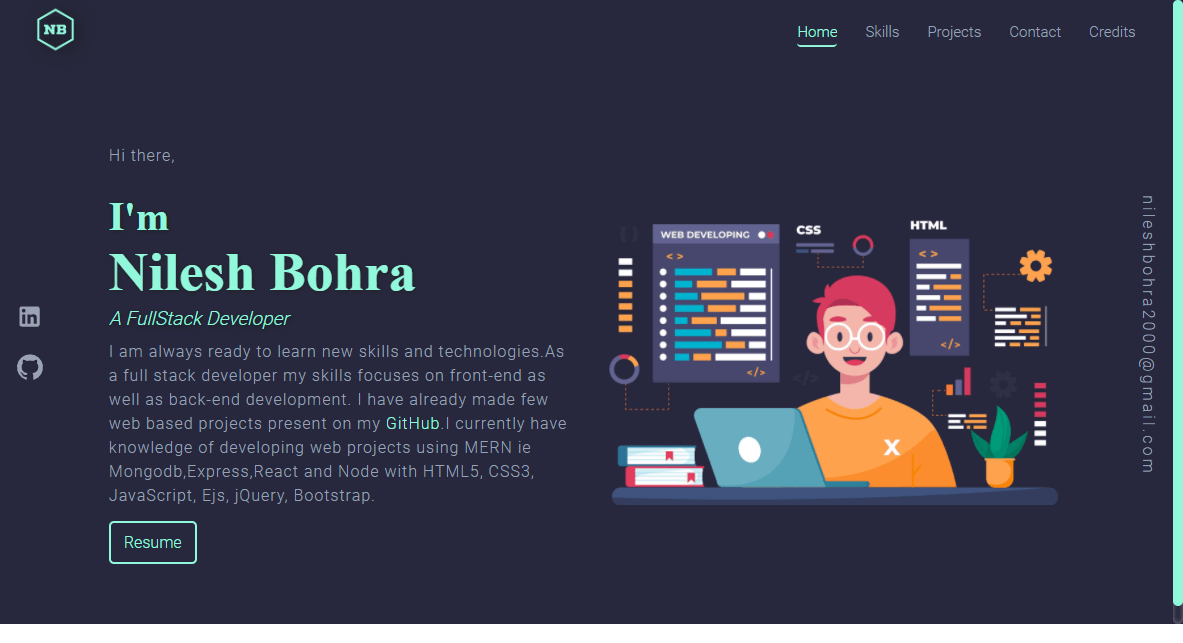
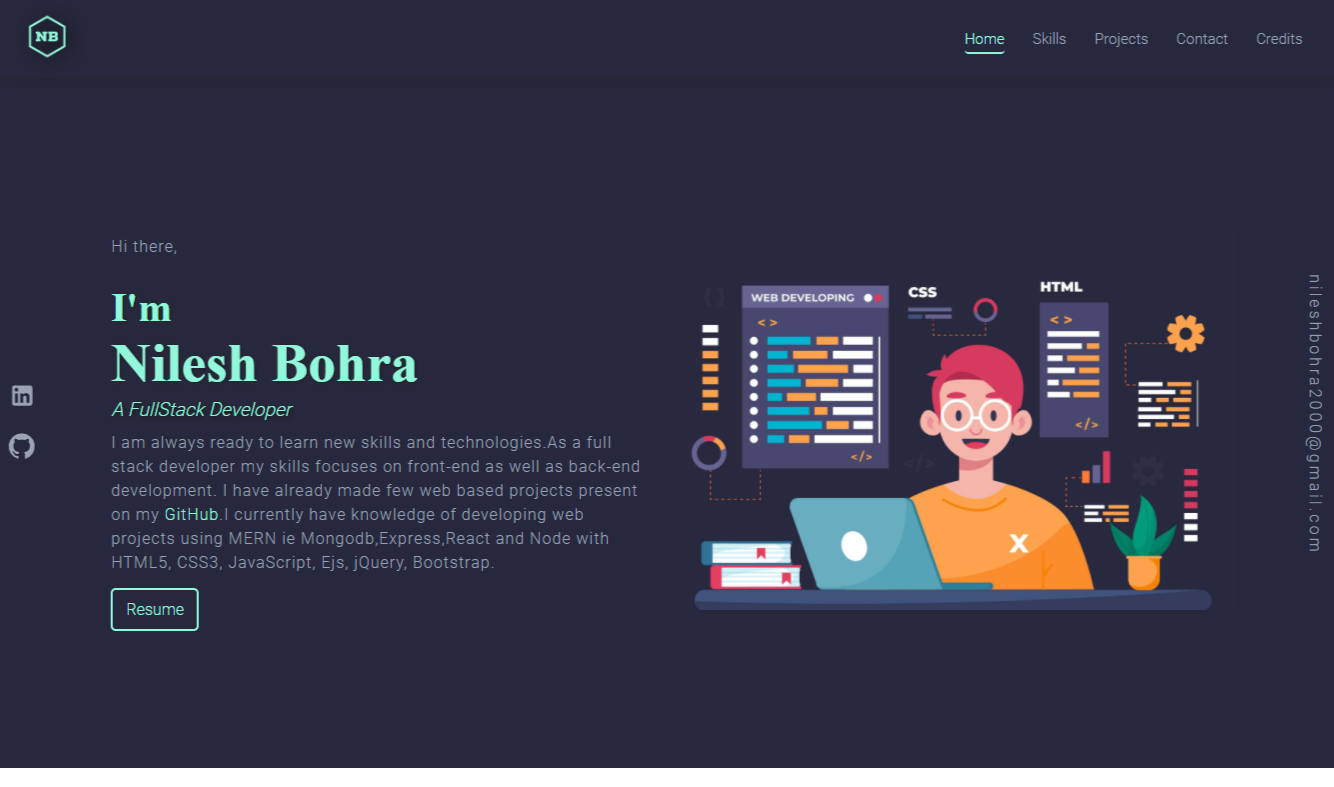
improved ui

diff --git a/public/index.css b/public/index.css
@@ -8,7 +8,6 @@
   box-sizing: border-box;
   font-family: "Roboto", sans-serif;
 }
-
 /* css variables */
 :root {
   /* --primary-bg: #091223; */
@@ -18,6 +17,10 @@
 }
 
 /* --------------------------------- global --------------------------------- */
+html {
+  scroll-behavior: smooth;
+}
+
 body {
   background-color: var(--primary-bg);
   height: 100vh;
@@ -91,28 +94,45 @@ h1.heading::before {
 }
 
 /* ------------------------------ splashScreen ------------------------------ */
-.splashScreen{
-  height: 100vh;
+.splashScreen {
+  height: 90vh;
   width: 100vw;
   display: flex;
   align-items: center;
   justify-content: center;
   overflow: hidden;
 }
-.splashScreenImg{
-  width: 150px;
-  animation-name: blink;
-  animation-duration: 1.2s;
-  animation-timing-function: ease;
-  animation-iteration-count: infinite;
+.splashScreenImg {
+  width: 130px;
+  -webkit-animation-name: blink;
+          animation-name: blink;
+  -webkit-animation-duration: 1.2s;
+          animation-duration: 1.2s;
+  -webkit-animation-timing-function: ease;
+          animation-timing-function: ease;
+  -webkit-animation-iteration-count: infinite;
+          animation-iteration-count: infinite;
 }
 
-@keyframes blink{
-  from{
-    filter: drop-shadow(0px 0px 4px var(--primary-txt));
+@-webkit-keyframes blink {
+  from {
+    -webkit-filter: drop-shadow(0px 0px 4px var(--primary-txt));
+            filter: drop-shadow(0px 0px 4px var(--primary-txt));
   }
-  to{
-    filter: drop-shadow(4px 2px 10px rgb(0, 0, 0));
+  to {
+    -webkit-filter: drop-shadow(4px 2px 10px rgb(0, 0, 0));
+            filter: drop-shadow(4px 2px 10px rgb(0, 0, 0));
+  }
+}
+
+@keyframes blink {
+  from {
+    -webkit-filter: drop-shadow(0px 0px 4px var(--primary-txt));
+            filter: drop-shadow(0px 0px 4px var(--primary-txt));
+  }
+  to {
+    -webkit-filter: drop-shadow(4px 2px 10px rgb(0, 0, 0));
+            filter: drop-shadow(4px 2px 10px rgb(0, 0, 0));
   }
 }
 
@@ -124,14 +144,18 @@ header {
   align-items: center;
   height: 10vh;
   padding: 1.2% 2%;
+  position: -webkit-sticky;
   position: sticky;
+  box-shadow: 1px 1px 20px -8px rgb(27, 27, 27);
 }
 .logo {
-  filter: drop-shadow(4px 2px 10px rgb(0, 0, 0));
+  -webkit-filter: drop-shadow(4px 2px 10px rgb(0, 0, 0));
+          filter: drop-shadow(4px 2px 10px rgb(0, 0, 0));
   transition: all 0.5s ease;
 }
 .logo:hover {
-  filter: drop-shadow(0px 0px 1.5px var(--primary-txt));
+  -webkit-filter: drop-shadow(0px 0px 1.5px var(--primary-txt));
+          filter: drop-shadow(0px 0px 1.5px var(--primary-txt));
 }
 nav > ul {
   list-style: none;
@@ -262,11 +286,17 @@ h3.title {
   padding: 10px 20px;
   height: 220px;
   overflow: auto;
+  background-color: var(--primary-txt);
+  border-radius: 5px;
+  box-shadow: 1px 1px 10px black;
 }
 .projectImage {
   width: 50%;
-  height: 100%;
+  height: auto;
   overflow: hidden;
+  border-radius: 10px;
+  box-shadow: 0px 0px 5px black;
+  background-color: #1f2e4b;
 }
 .projectImgs {
   width: 100%;
@@ -281,6 +311,9 @@ h3.title {
   display: flex;
   flex-direction: column;
 }
+.projectTitle > h1.primaryTxt {
+  color: var(--primary-bg);
+}
 .projectLinks {
   position: absolute;
   width: 80%;
@@ -291,6 +324,7 @@ h3.title {
   margin-top: 6px;
 }
 .projectLinks > a {
+  color: var(--primary-bg);
   padding: 0 20px;
 }
 #Projects > .moreProjects {
@@ -307,7 +341,15 @@ h3.title {
 }
 .contactForm {
   display: flex;
+  flex-direction: column;
   justify-content: center;
+  align-items: center;
+}
+.contactForm > h1.primaryTxt {
+  font-size: 35px;
+  margin-bottom: 20px;
+  letter-spacing: 2px;
+  font-family: monospace;
 }
 form {
   width: 70%;
@@ -336,12 +378,12 @@ form {
 }
 .formGroup input,
 textarea {
-  border: 2px solid red;
   color: var(--primary-txt);
   padding: 9px 15px;
   background-color: transparent;
   outline: none;
   border: 2px solid var(--primary-txt);
+  border-radius: 5px;
   margin-top: 6px;
   font-size: 15.5px;
   letter-spacing: 0.7px;
@@ -349,6 +391,12 @@ textarea {
 }
 textarea {
   resize: vertical;
+}
+
+.btnSubmit {
+  background-color: var(--primary-txt);
+  color: var(--primary-bg);
+  font-weight: 900;
 }
 
 /* -------------------------- Credits Page section -------------------------- */
@@ -417,7 +465,7 @@ textarea {
   .nameTxt {
     font-size: 30px;
   }
-  #introduction{
+  #introduction {
     width: 100%;
   }
   .heroImage {
@@ -456,6 +504,9 @@ textarea {
     box-shadow: 1px 1px 20px -8px rgb(27, 27, 27);
     margin-bottom: 10px;
     padding: 0 15px;
+    height: -webkit-fit-content;
+    height: -moz-fit-content;
+    height: fit-content;
   }
   /* .logo {
   } */
@@ -493,13 +544,13 @@ textarea {
     z-index: 3;
   }
   .hamburgerMenu i {
-    width: 27px;
+    width: 35px;
     height: 3px;
     background-color: var(--primary-txt);
     transition: all ease 0.5s;
   }
   .hamburgerMenu i:nth-child(2) {
-    width: 20px;
+    width: 25px;
     background-color: red;
   }
 
@@ -576,7 +627,7 @@ textarea {
   }
   .projectItem {
     width: auto;
-    height: 175px;
+    height: 160px;
     padding: 10px;
     margin: 10px 0;
   }
@@ -603,6 +654,9 @@ textarea {
   }
 
   /* ------------------------------ Contact Page ------------------------------ */
+  .contactForm > h1.primaryTxt {
+    font-size: 25px;
+  }
   .contactForm form {
     width: 100%;
     padding: 10px;
@@ -618,7 +672,7 @@ textarea {
   }
   .formGroup input,
   textarea {
-    font-size: 12px;
+    font-size: 13px;
   }
   .col:nth-child(2) {
     margin-left: 0px;

diff --git a/src/components/pages/Contact.jsx b/src/components/pages/Contact.jsx
@@ -41,6 +41,7 @@ export default function Contact() {
       <section id="Contact">
         <h1 className="primaryTxt heading">Contact Me</h1>
         <div className="contactForm">
+          <h1 className="primaryTxt">Get In Touch</h1>
           <form
             name="contact"
             id="contactForm"
@@ -111,7 +112,7 @@ export default function Contact() {
               <textarea
                 name="message"
                 id="message"
-                rows="8"
+                rows="6.5"
                 placeholder="Type Your Message"
                 required
               ></textarea>
